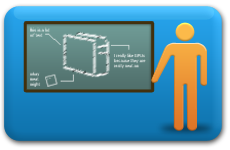
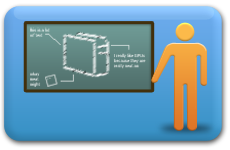
Fixed images/changed colors

diff --git a/includes/style.css b/includes/style.css
@@ -137,14 +137,16 @@ a.nav_items:active {
 	font-size:14pt;
 	
 }
+
+
 .blue {
-	color:#6DABED;
+	color:#0287ae;
 }
 .orange {
 	color:#c67b04;
 }
 .green {
-	color:#46BD62;
+	color:#009a07;
 }
 /* option slider */
 #option_arrows {
